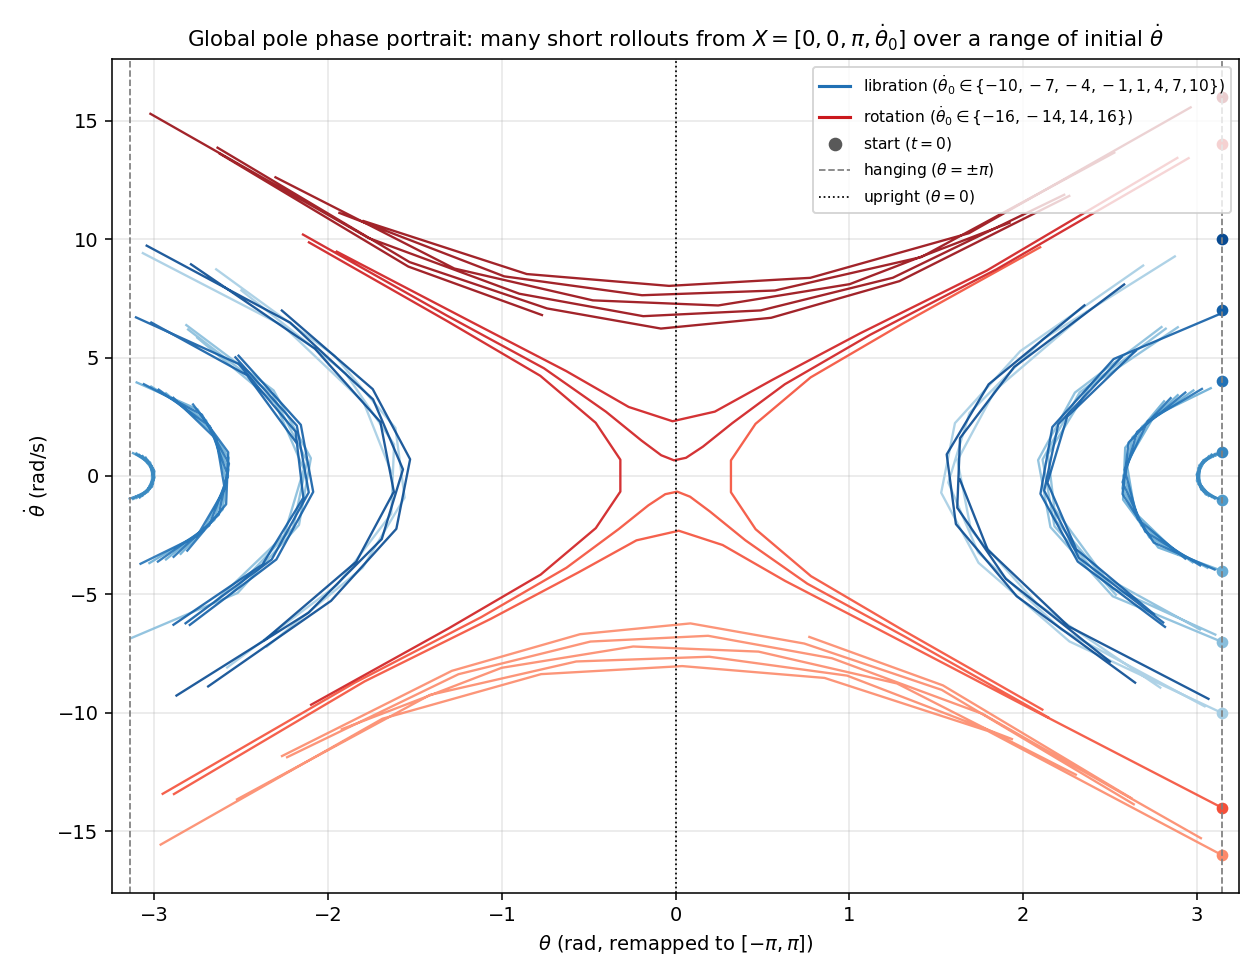
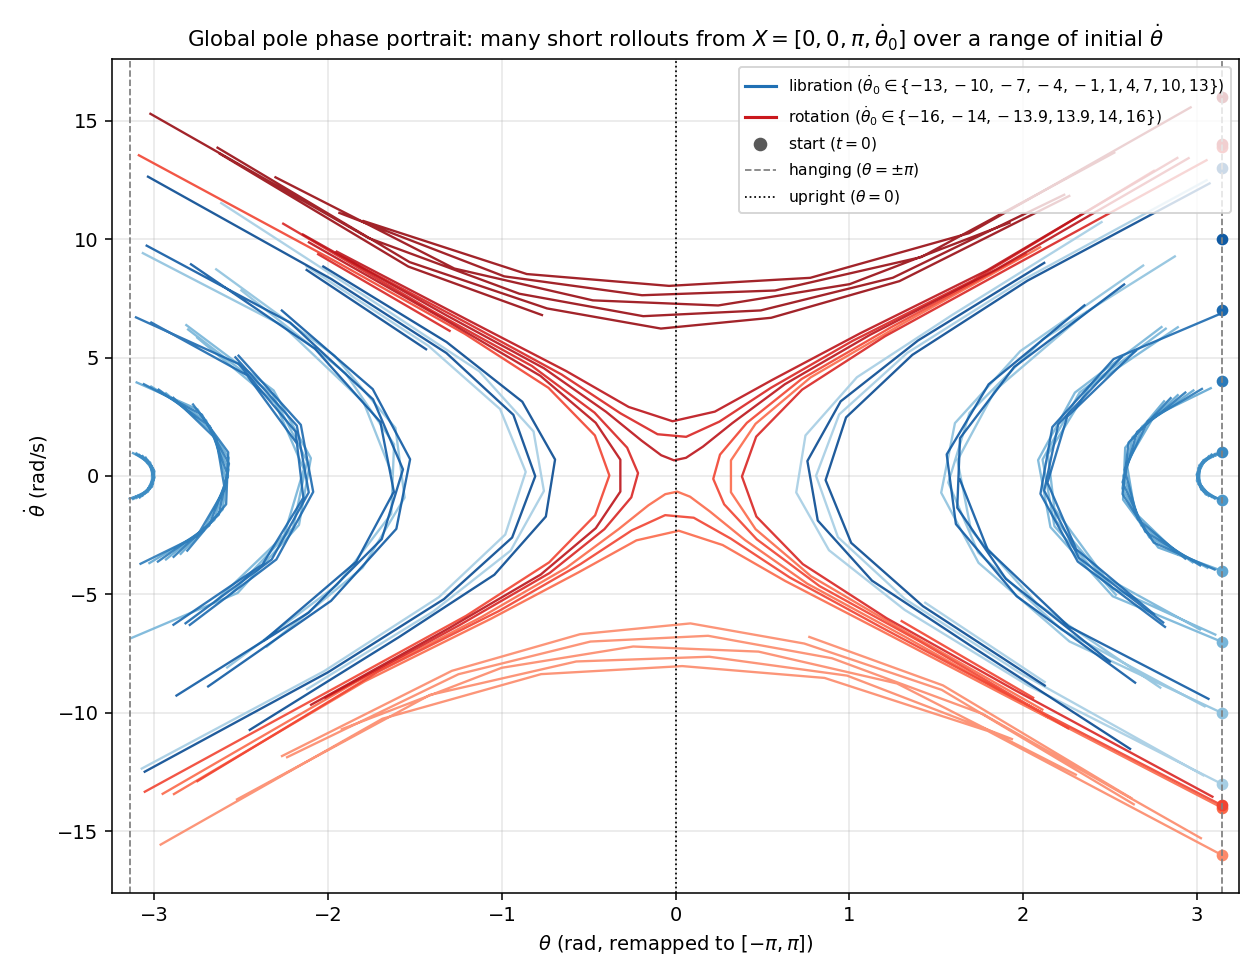
small changes for plots

Changed region(s): [[0.1238, 0.1837, 0.9905, 0.8265], [0.5881, 0.0612, 0.9286, 0.2143], [0.1238, 0.1837, 0.1857, 0.2143]]

diff --git a/week2/task2_3.py b/week2/task2_3.py
@@ -46,6 +46,7 @@ sys.path.insert(0, str(ROOT))
 sys.path.insert(0, str(ROOT / "week2"))
 from cartpole import CartPole, _remap_angle                          # noqa: E402
 from task2_1 import _angle_wrap, _estimate_period                    # noqa: E402
+import task2_2 as t22                                                # noqa: E402
 
 
 # =========================================================================
@@ -476,6 +477,32 @@ def rollout_horizon(model: KernelEnsemble, X0, sigmas_state, n_steps, dt,
 
 
 # =========================================================================
+# 6b. RECONSTRUCT TASK 2.2 MODELS (for the rollout-horizon overlay)
+# =========================================================================
+def build_t22_models():
+    """Rebuild Task 2.2's 't2.1' and optimised ('opt') KernelEnsembles so their
+    iterated rollouts can be overlaid against the Task 2.3 sin/cos model.
+
+    Returns (t21_model, t22_opt_model, t21_lambda); any may be None if the
+    Task 2.2 hyperparameter cache (or the Task 2.1 lambda) is unavailable.
+
+    The returned objects are task2_2.KernelEnsemble instances and MUST be rolled
+    out with task2_2.model_rollout (which remaps theta in-loop) -- unlike the
+    Task 2.3 model, whose sin/cos features absorb periodicity without remap."""
+    hp_path = t22.hp_cache_path()
+    if not hp_path.exists():
+        print(f"[t2.2] {hp_path.name} not found -- skipping t2.1/t2.2 overlay")
+        return None, None, None
+    data22 = t22.load_or_gather_data()
+    lin_C = t22.fit_linear(data22["X_tr"], data22["Y_tr"])
+    with open(hp_path) as f:
+        opt_results = json.load(f)["results"]
+    _, t21_model, t22_opt_model, t21_lambda = t22.build_ensembles(
+        data22, opt_results, lin_C)
+    return t21_model, t22_opt_model, t21_lambda
+
+
+# =========================================================================
 # 7. PLOTS
 # =========================================================================
 def plot_pred_vs_true(Y_true, Y_pred, title, savepath):
@@ -592,6 +619,77 @@ def plot_mse_comparison(mse_lin, mse_nl_init, mse_nl_opt, savepath):
     plt.close(fig)
 
 
+def plot_rollout_horizon_comparison(model_entries, ICs, ic_labels,
+                                    sigmas_state, n_steps, dt, threshold,
+                                    savepath):
+    """Overlay normalised rollout error vs time for several models on a common
+    set of ICs -- the Task 2.2 rollout-horizon figure, plus the Task 2.3 model.
+
+    model_entries: list of dicts {label, model, rollout_fn, colour}. Each model
+    is rolled out with its own rollout_fn (Task 2.2 remaps theta in-loop, Task
+    2.3 does not), then compared against the shared true rollout. Returns
+    per-model lists of {IC, T_break_s, period_s, cycles_at_break}."""
+    n_ic = len(ICs)
+    n_cols = min(n_ic, 3)
+    n_rows = int(np.ceil(n_ic / n_cols))
+    fig, axes = plt.subplots(n_rows, n_cols,
+                             figsize=(5.0 * n_cols, 4.0 * n_rows),
+                             sharex=True, sharey=True)
+    axes_flat = axes.ravel() if n_ic > 1 else [axes]
+
+    summaries = {e["label"]: [] for e in model_entries}
+    tarr = np.arange(n_steps + 1) * dt
+
+    for r, X0 in enumerate(ICs):
+        ax = axes_flat[r]
+        tr_true = true_rollout(X0, n_steps)
+        period_s = _estimate_period(tr_true, dt)
+        for e in model_entries:
+            model = e["model"]
+            if model is None:
+                continue
+            tr_m = e["rollout_fn"](model, X0, n_steps)
+            diff = tr_m - tr_true
+            diff[:, 2] = _angle_wrap(diff[:, 2])
+            err = np.sqrt(np.sum((diff / sigmas_state) ** 2, axis=1))
+            above = err > threshold
+            t_break = (float(tarr[int(np.argmax(above))])
+                       if above.any() else float("inf"))
+            if np.isfinite(t_break) and np.isfinite(period_s) and period_s > 0:
+                cycles = t_break / period_s
+            else:
+                cycles = None
+            t_str = (f"T={t_break:.1f}s" if np.isfinite(t_break)
+                     else f"T>{tarr[-1]:.0f}s")
+            ax.semilogy(tarr, np.maximum(err, 1e-6), "-",
+                        color=e["colour"], lw=1.4,
+                        label=f"{e['label']} [{t_str}]")
+            if np.isfinite(t_break):
+                ax.axvline(t_break, color=e["colour"], ls=":", lw=1, alpha=0.6)
+            summaries[e["label"]].append({
+                "IC":              ic_labels[r].splitlines()[0],
+                "T_break_s":       t_break if np.isfinite(t_break) else None,
+                "period_s":        period_s if np.isfinite(period_s) else None,
+                "cycles_at_break": cycles,
+            })
+        ax.axhline(threshold, color="k", ls="--", lw=1, alpha=0.6)
+        ax.set_title(ic_labels[r], fontsize=9)
+        ax.set_xlabel("time / s")
+        ax.set_ylabel(r"$\|(X_m - X_t)/\sigma\|_2$")
+        ax.grid(True, which="both", alpha=0.4)
+        ax.legend(fontsize=7, loc="lower right")
+
+    for r in range(n_ic, n_rows * n_cols):
+        axes_flat[r].axis("off")
+
+    fig.suptitle(f"Rollout horizon comparison (threshold={threshold}): "
+                 f"t2.1 vs t2.2-opt vs t2.3")
+    fig.tight_layout()
+    fig.savefig(savepath, dpi=130)
+    plt.close(fig)
+    return summaries
+
+
 # =========================================================================
 # 8. MAIN
 # =========================================================================
@@ -684,6 +782,35 @@ def main():
                  "Rollout: full-rotation regime (theta_dot=10)",
                  fig_path("rollout_fullrotation"), dt)
 
+    # ---- 7b. ROLLOUT-HORIZON COMPARISON: t2.1 vs t2.2-opt vs t2.3 ----
+    # Two regimes side by side, overlaying t2.1 / t2.2-opt / t2.3 to compare
+    # how long each model tracks the true dynamics.
+    cmp_ICs = [
+        np.array([0.0, 0.0, 0.1, 3.0]),    # near upright + rapid spin
+        np.array([1.0, 1.0, -1.5, 0.0]),   # off-centre downswing
+    ]
+    cmp_IC_labels = [
+        "near upright + rapid spin\nX=[0, 0, 0.1, 3.0]",
+        "off-centre, downswing\nX=[1, 1, -1.5, 0]",
+    ]
+    cmp_steps = int(t22.CFG["rollout_steps"])   # match Task 2.2's horizon length
+    t21_model, t22_opt_model, t21_lambda = build_t22_models()
+    model_entries = []
+    if t21_model is not None:
+        model_entries.append({"label": "t2.1", "model": t21_model,
+                              "rollout_fn": t22.model_rollout, "colour": "tab:green"})
+    if t22_opt_model is not None:
+        model_entries.append({"label": "t2.2-opt", "model": t22_opt_model,
+                              "rollout_fn": t22.model_rollout, "colour": "tab:red"})
+    model_entries.append({"label": "t2.3", "model": nl_opt,
+                          "rollout_fn": model_rollout, "colour": "tab:purple"})
+    horizon_cmp = plot_rollout_horizon_comparison(
+        model_entries, cmp_ICs, cmp_IC_labels, sigmas_state,
+        cmp_steps, dt, CFG["horizon_threshold"],
+        fig_path("rollout_horizon_comparison"))
+    print(f"[fig] rollout-horizon comparison -> "
+          f"{fig_path('rollout_horizon_comparison').name}")
+
     # ---- 8. PLOT: MSE comparison bar chart ----
     plot_mse_comparison(mse_lin_va, mse_nl_init_va, mse_nl_opt_va,
                         fig_path("mse_comparison"))
@@ -740,6 +867,12 @@ def main():
             },
         },
         "sigmas_state_normalisation": sigmas_state.tolist(),
+        "rollout_horizon_comparison": {
+            "n_steps":   cmp_steps,
+            "threshold": CFG["horizon_threshold"],
+            "t21_lambda": t21_lambda,
+            "per_model": horizon_cmp,
+        },
     }
     with open(results_path, "w") as f:
         json.dump(summary, f, indent=2)

diff --git a/week1/task1_1_rollouts.py b/week1/task1_1_rollouts.py
@@ -260,8 +260,8 @@ SHORT_N_STEPS = 35     # ~3.5 s — ~3 small-oscillation periods, a few rotation
 
 # Initial θ̇ values sampled for the global phase portrait.  Coverage spans the
 # small libration regime up through clear rotation, with both signs.
-GLOBAL_LIB_THETADOTS = [-10.0, -7.0, -4.0, -1.0, 1.0, 4.0, 7.0, 10.0]
-GLOBAL_ROT_THETADOTS = [-16.0, -14.0, 14.0, 16.0]
+GLOBAL_LIB_THETADOTS = [-13.0, -10.0, -7.0, -4.0, -1.0, 1.0, 4.0, 7.0, 10.0, 13.0]
+GLOBAL_ROT_THETADOTS = [-16.0, -14.0, -13.9, 13.9, 14.0, 16.0]
 
 
 def plot_phase_global(fname,
